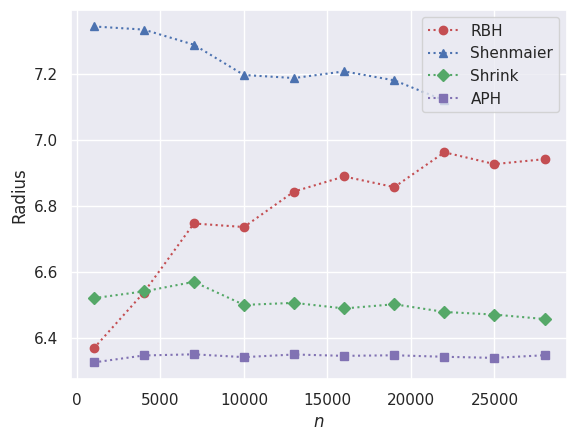
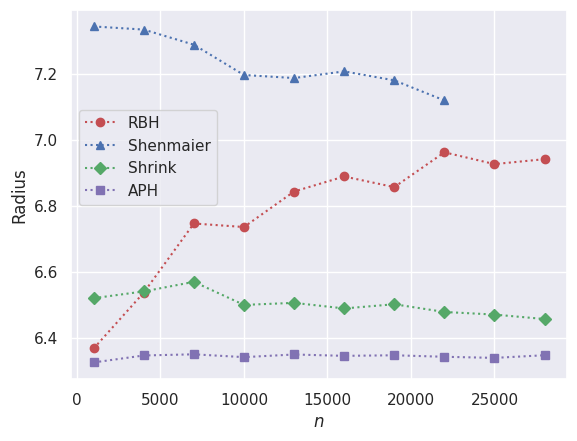
plots

diff --git a/src/alg_plots.py b/src/alg_plots.py
@@ -73,59 +73,63 @@ xlabels = {
 
 for data_type in data_types:
     for param in params:
-        # construct filename
-        filename = "func_{0}_{1}".format(param, fixed_params[param])
-        if param != "eta":
-            filename += "_eta0p9"
-        filename += "_{}".format(data_type)
+        if data_type == "normal" and param == "n":
+            # construct filename
+            filename = "func_{0}_{1}".format(param, fixed_params[param])
+            if param != "eta":
+                filename += "_eta0p9"
+            filename += "_{}".format(data_type)
 
-        # get times from log
-        times_dict = {heuristic: benchmarking.utils.get_times_from_log(r"benchmarks/{0}/{1}/{2}.log".format(heuristic, data_type, filename)) for heuristic in heuristics}
-        results_dict = {heuristic: benchmarking.utils.get_r_from_log(r"benchmarks/{0}/{1}/{2}.log".format(heuristic, data_type, filename)) for heuristic in heuristics}
+            # get times from log
+            times_dict = {heuristic: benchmarking.utils.get_times_from_log(r"benchmarks/{0}/{1}/{2}.log".format(heuristic, data_type, filename)) for heuristic in heuristics}
+            results_dict = {heuristic: benchmarking.utils.get_r_from_log(r"benchmarks/{0}/{1}/{2}.log".format(heuristic, data_type, filename)) for heuristic in heuristics}
 
-        # === times
-        
-        plt.figure()
-        plt.xlabel(xlabels[param])
-        plt.ylabel("Time (s)")
+            # === times
+            
+            plt.figure()
+            plt.xlabel(xlabels[param])
+            plt.ylabel("Time (s)")
 
-        for heuristic, times in times_dict.items():
-            if heuristic != "shrink_avg":
+            for heuristic, times in times_dict.items():
+                if heuristic != "shrink_avg":
+                    if heuristic == "shenmaier" and param == "n":
+                        x_axis = [1000 + 3000*i for i in range(8)]
+                    elif heuristic == "relaxation_heuristic" and data_type == "uniform_ball_with_outliers" and param == "d":
+                        x_axis = [10 + 10*i for i in range(8)]
+                    else:
+                        x_axis = axes[param]
+
+                    plt.plot(x_axis, times, marker=markers_funcs[heuristic], color=colours_funcs[heuristic], linestyle=":", label=labels_funcs[heuristic])
+                
+            if data_type == "normal" and param == "eta":
+                plt.legend(loc="best", bbox_to_anchor=(0.5,0.,0.5,0.5))
+            else:
+                plt.legend()
+
+            plt.savefig("images/alg_benchmarks/by_data/{}".format(filename), bbox_inches="tight")
+            plt.close()
+            
+            # === results
+            plt.figure()
+            plt.xlabel(xlabels[param])
+            plt.ylabel("Radius")
+
+            for heuristic, results in results_dict.items():
                 if heuristic == "shenmaier" and param == "n":
                     x_axis = [1000 + 3000*i for i in range(8)]
                 elif heuristic == "relaxation_heuristic" and data_type == "uniform_ball_with_outliers" and param == "d":
                     x_axis = [10 + 10*i for i in range(8)]
                 else:
                     x_axis = axes[param]
-
-                plt.plot(x_axis, times, marker=markers_funcs[heuristic], color=colours_funcs[heuristic], linestyle=":", label=labels_funcs[heuristic])
+                
+                plt.plot(x_axis, results, marker=markers_funcs[heuristic], color=colours_funcs[heuristic], linestyle=":", label=labels_funcs[heuristic])
             
-        if data_type == "normal" and param == "eta":
-            plt.legend(loc="best", bbox_to_anchor=(0.5,0.,0.5,0.5))
-        else:
-            plt.legend()
-
-        plt.savefig("images/alg_benchmarks/by_data/{}".format(filename), bbox_inches="tight")
-        plt.close()
-        
-        # === results
-        plt.figure()
-        plt.xlabel(xlabels[param])
-        plt.ylabel("Radius")
-
-        for heuristic, results in results_dict.items():
-            if heuristic == "shenmaier" and param == "n":
-                x_axis = [1000 + 3000*i for i in range(8)]
-            elif heuristic == "relaxation_heuristic" and data_type == "uniform_ball_with_outliers" and param == "d":
-                x_axis = [10 + 10*i for i in range(8)]
+            if data_type == "normal" and param == "n":
+                plt.legend(loc=2, bbox_to_anchor=(0,0.75))
             else:
-                x_axis = axes[param]
-            
-            plt.plot(x_axis, results, marker=markers_funcs[heuristic], color=colours_funcs[heuristic], linestyle=":", label=labels_funcs[heuristic])
-        
-        plt.legend()
-        plt.savefig("images/alg_benchmarks/by_data/{}_r".format(filename), bbox_inches="tight")
-        plt.close()
+                plt.legend()
+            plt.savefig("images/alg_benchmarks/by_data/{}_r".format(filename), bbox_inches="tight")
+            plt.close()
 
 
 for heuristic in heuristics:
